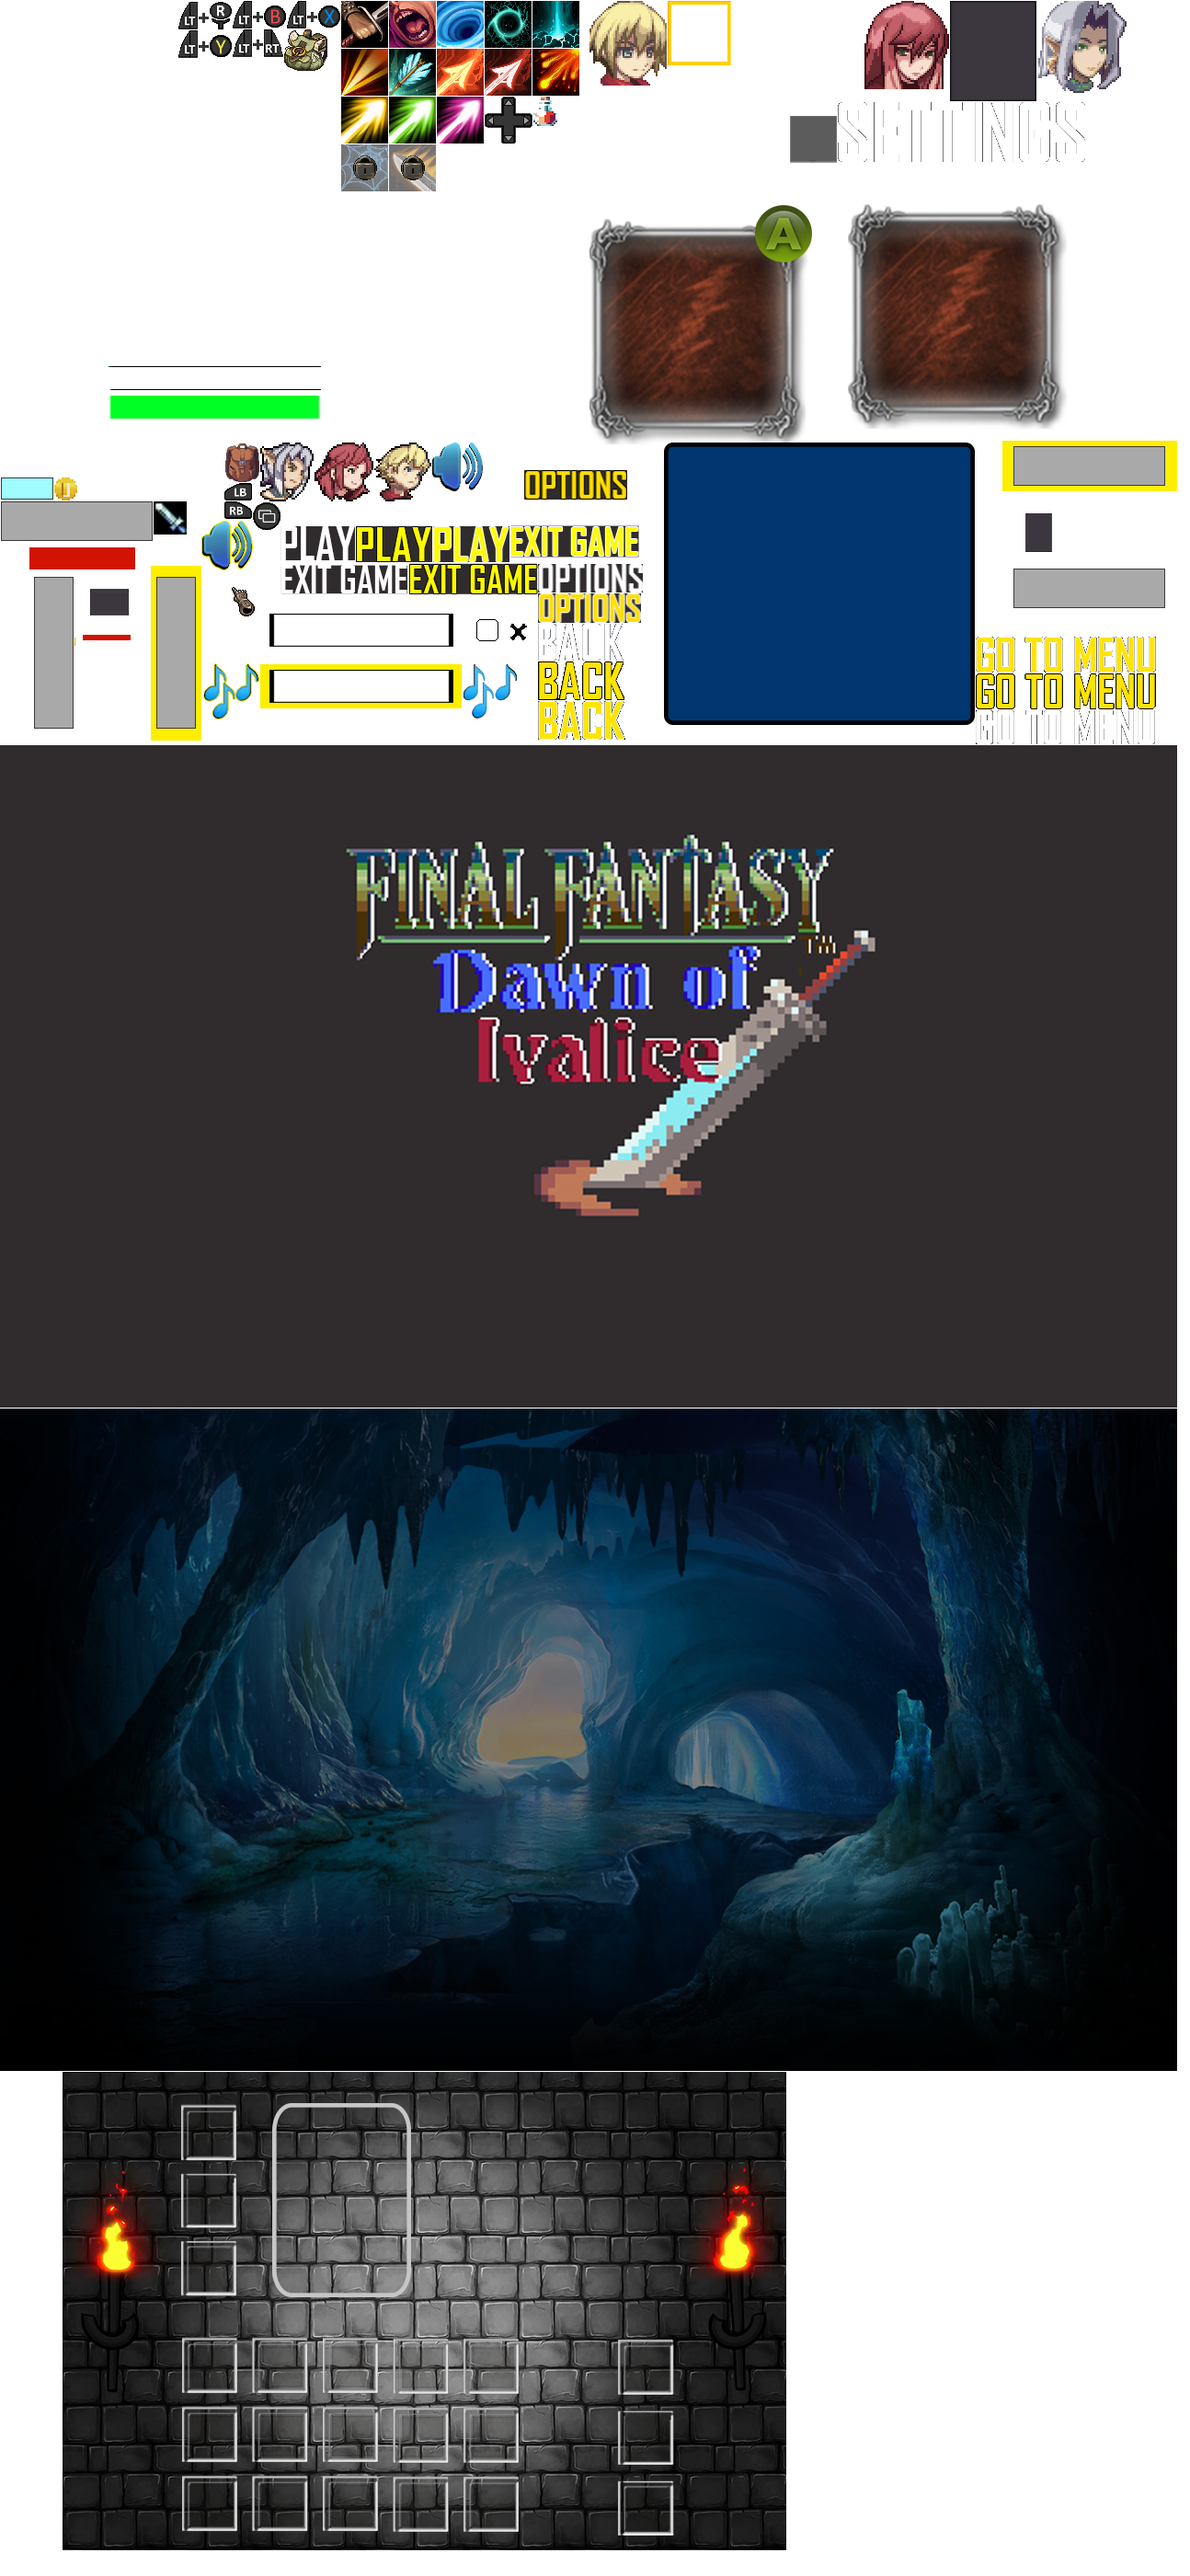
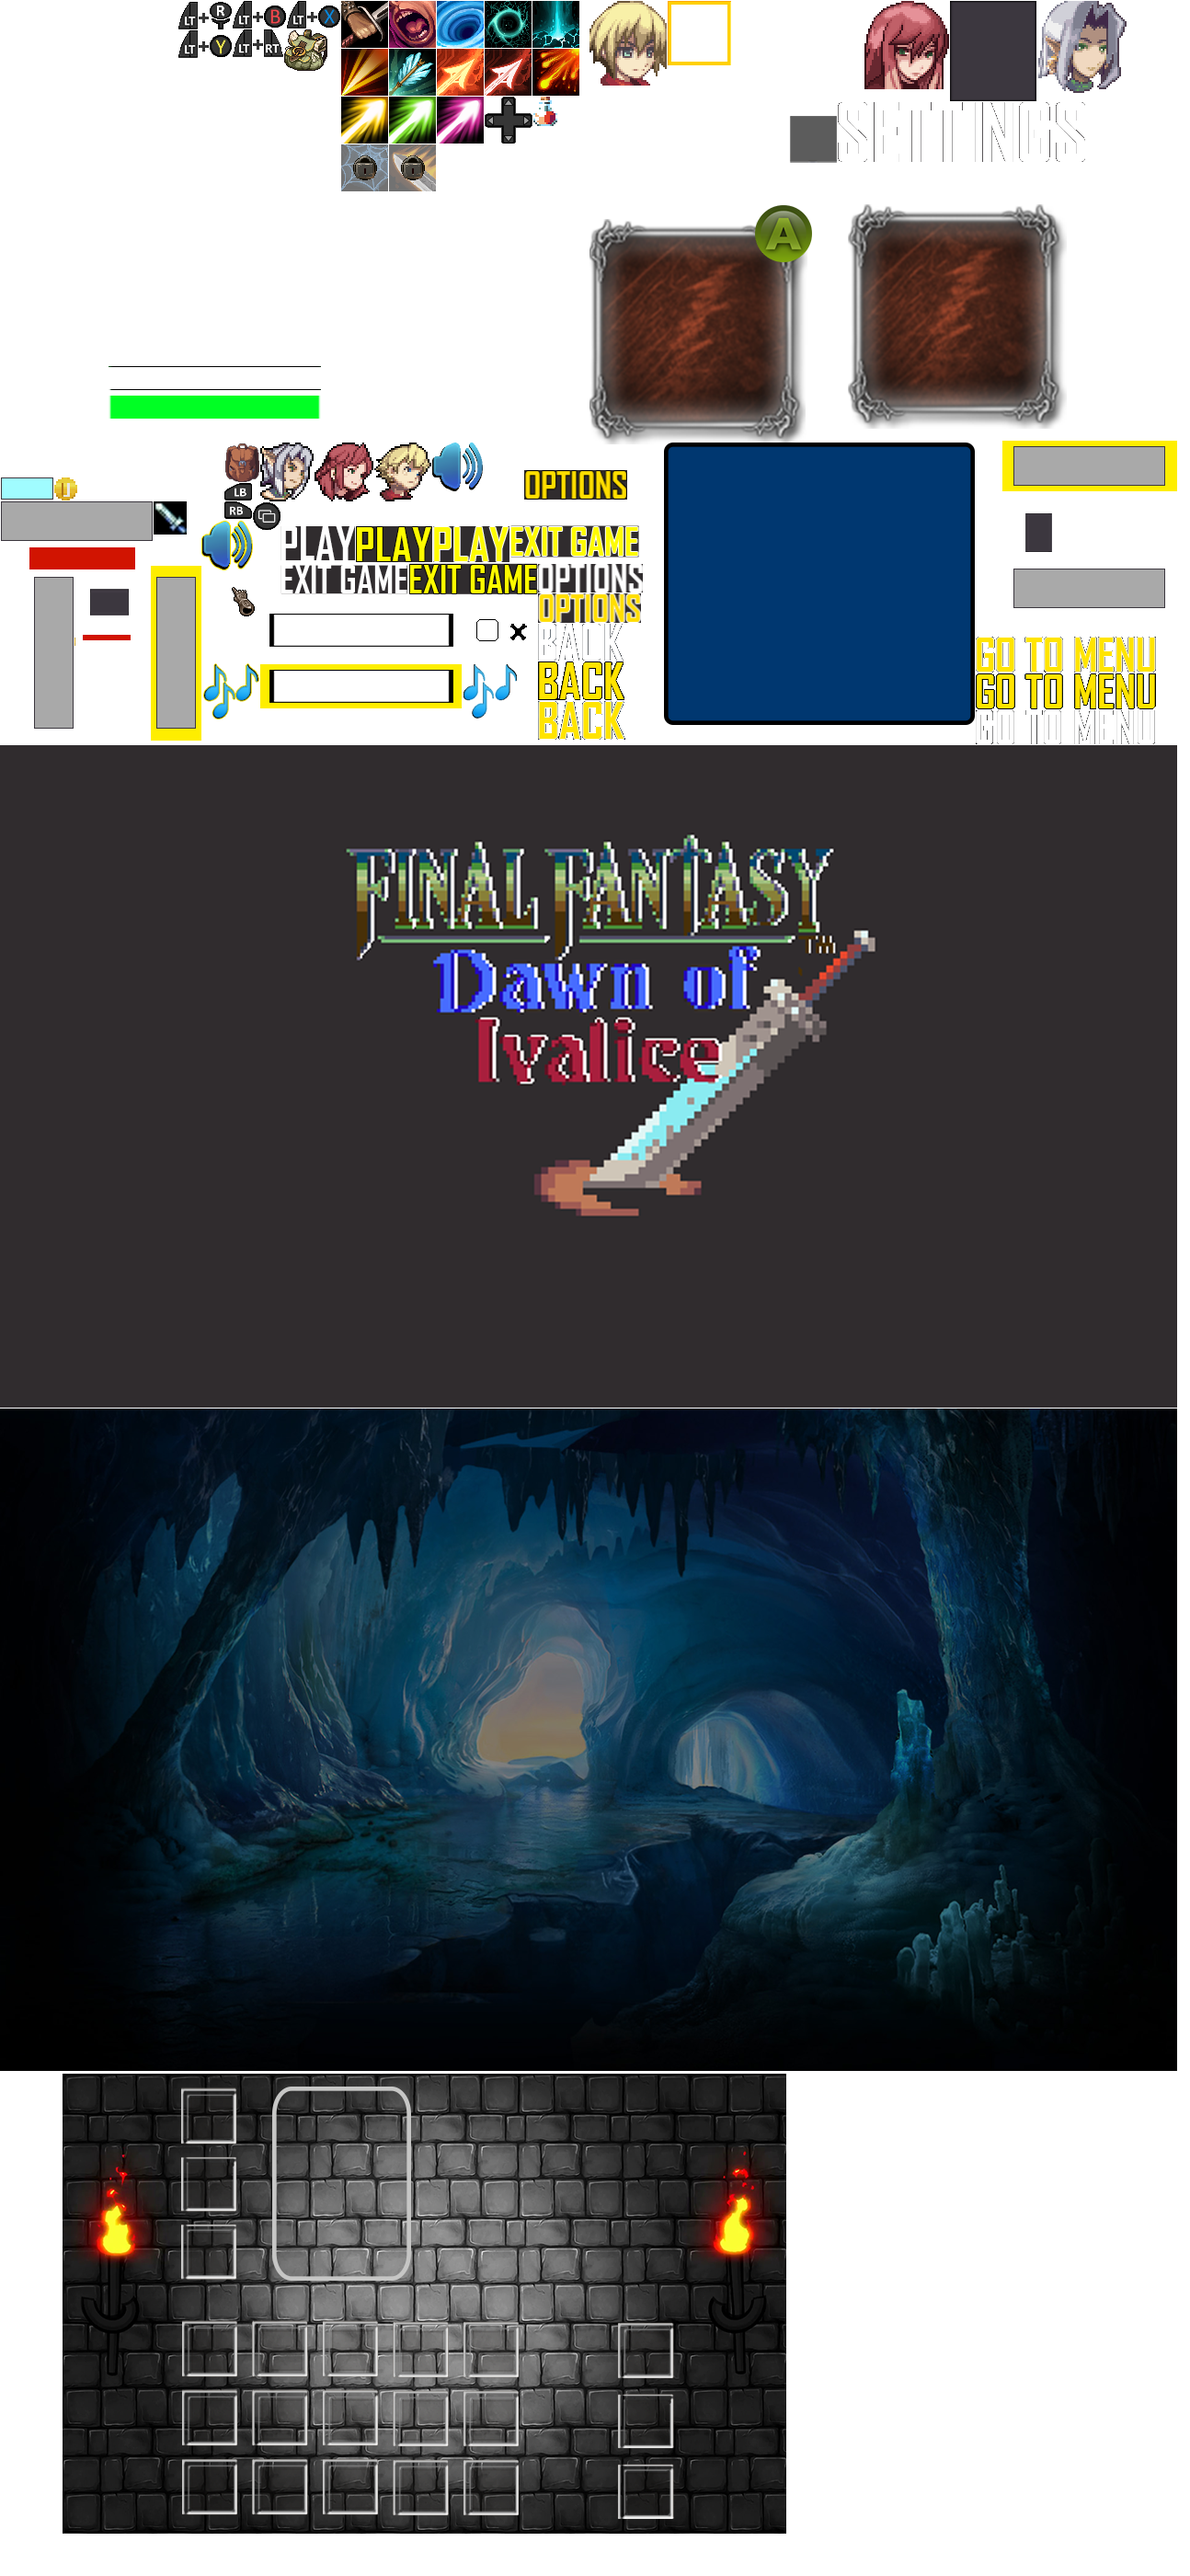
reworking inventory positiuons

Changed region(s): [[0.0618, 0.8079, 0.6801, 0.9943]]

diff --git a/Motor2D/UiItem_Inventory.cpp b/Motor2D/UiItem_Inventory.cpp
@@ -13,7 +13,7 @@ UiItem_Inventory::UiItem_Inventory(UiItem* const parent) :UiItem(parent)
 {
 	this->parent = parent;
 	this->guiType = GUI_TYPES::INVENTORY;
-	App->scene->tab_inventory = App->gui->AddImage({ startingPos.x + 41, startingPos.y + 285 }, &tab_image, parent);
+	App->scene->tab_inventory = App->gui->AddImage({ startingPos.x + 137, startingPos.y + 276 }, &tab_image, parent);
 }
 
 
@@ -134,13 +134,13 @@ bool UiItem_Inventory::LoadElements(bool onlyEquipped)
 				if (i == 0)  // first
 				{
 
-					position = { (startingPos.x + 56), (startingPos.y + 302 + j * boxSeparation.y) };
+					position = { (startingPos.x + 137), (startingPos.y + 276 + j * boxSeparation.y) };
 
 
 				}
 				else   // the rest of elements in the row
 				{
-					position = { (startingPos.x + 56 + i * boxSeparation.x), (startingPos.y + 302) + j * boxSeparation.y };
+					position = { (startingPos.x + 137 + i * boxSeparation.x), (startingPos.y + 276) + j * boxSeparation.y };
 				}
 
 

diff --git a/Motor2D/UiItem_Inventory.h b/Motor2D/UiItem_Inventory.h
@@ -14,15 +14,15 @@
 #define boxSize 48                   
 #define boxSeparation iPoint(77,74)
 
-#define staringPosition iPoint(274, 101)
+#define staringPosition iPoint(278, 101)
 #define tabOffset iPoint(15,17)
 #define tabOffsetPotion iPoint(25,23)
 
 struct elementsStartingPositionsOffsets
 { 
-	iPoint currentWeapon = iPoint(56, 47);
-	iPoint currentHead = iPoint(56, 118);
-	iPoint currentArmor = iPoint(56, 194);
+	iPoint currentWeapon = iPoint(131, 24);
+	iPoint currentHead = iPoint(131, 96);
+	iPoint currentArmor = iPoint(131, 172);
 
 	iPoint potions = iPoint(100, 100);
 };
@@ -58,7 +58,7 @@ public:
 
 
 	elementsStartingPositionsOffsets initialPositionsOffsets;
-	iPoint startingPos = { 274, 101 };
+	iPoint startingPos = { 278, 101 };
 
 private:
 	SDL_Rect tab_image = { 726,1,69,70 };
